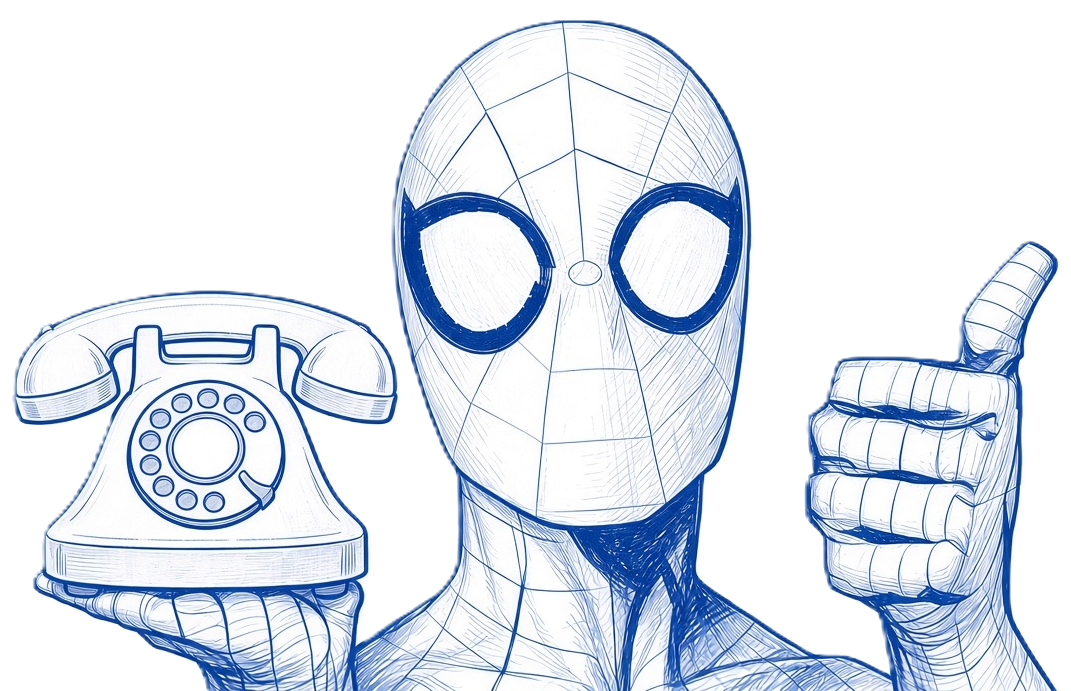
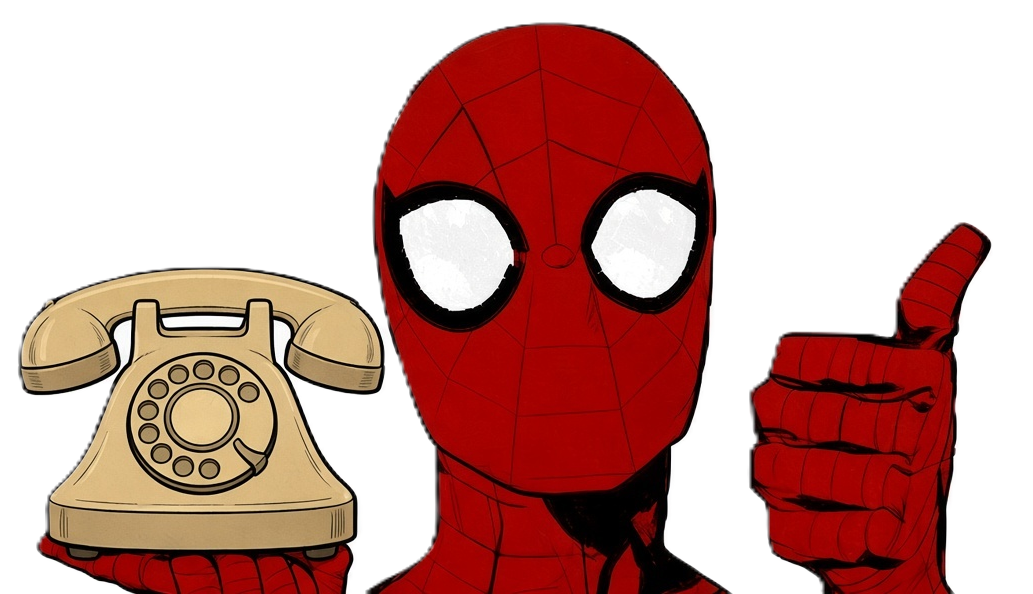
Update footer new ui

diff --git a/components/footer.tsx b/components/footer.tsx
@@ -19,8 +19,8 @@ const CONTACTS: {
     external: true
   },
   {
-    label: 'x',
-    value: '10xdhruv',
+    label: 'X',
+    value: '@10xdhruv',
     href: 'https://x.com/10xdhruv',
     external: true
   }
@@ -44,37 +44,33 @@ function SlantArrow () {
 export function Footer () {
   return (
     <footer className='mx-auto w-full max-w-3xl relative z-[1] text-ink'>
-      <div className='grid grid-cols-[32%_minmax(0,1fr)] items-center gap-12 rounded-lg border-[1.5px] border-dashed border-ink px-8 py-7 max-sm:grid-cols-[minmax(0,1fr)] max-sm:gap-4 max-sm:p-5'>
-        <Image
-          src={telephone}
-          alt='Etched antique telephone'
-          width={1039}
-          height={752}
-          className='pointer-events-none block '
-          style={{
-            maskImage: `url("${telephone.src}")`,
-            WebkitMaskImage: `url("${telephone.src}")`
-          }}
-        />
-        <div className='min-w-0'>
-          <h2 className='text-2xl font-normal leading-line text-ink-dark [.is-mono_&]:text-xl max-sm:text-[1.375rem]'>
+      <div className='grid grid-cols-[32%_minmax(0,1fr)] items-center gap-12 rounded-lg border-[1.5px] border-dashed border-ink px-5 py-3 max-sm:grid-cols-[minmax(0,1fr)] max-sm:gap-4 max-sm:p-5'>
+        <div className="flex flex-col items-center relative">
+          <Image
+            src={telephone}
+            alt='Etched antique telephone'
+            className='pointer-events-none block relative bottom-2'
+          />
+          <span> Caught in my web :D</span>
+        </div>
+        <div className='w-'>
+          <h2 className='w-full text-2xl font-normal leading-line text-ink-dark [.is-mono_&]:text-xl max-sm:text-[1.375rem]'>
             Dhruv Sahoo
           </h2>
-          <ul className='list-none'>
+          <ul className='w-full list-none'>
             {CONTACTS.map(c => (
               <li key={c.label}>
                 <a
-                  className='dotted-underline group grid w-full cursor-pointer grid-cols-[4.5rem_minmax(0,1fr)_1.4rem] items-baseline gap-2 leading-line focus-visible:outline-1 focus-visible:outline-dashed focus-visible:outline-offset-[3px] focus-visible:outline-ink max-sm:grid-cols-[3.75rem_minmax(0,1fr)_1.4rem] max-sm:gap-[0.35rem] max-sm:text-lg'
+                  className='group w-full grid grid-cols-[6rem_1fr] gap-4 cursor-pointer leading-line focus-visible:outline-1 focus-visible:outline-dashed focus-visible:outline-offset-[3px] focus-visible:outline-ink items-end in-[.is-mono_&]:border-b in-[.is-mono_&]:border-ink/30'
                   href={c.href}
                   {...(c.external
                     ? { target: '_blank', rel: 'noreferrer' }
                     : {})}
                 >
-                  <span className='text-ink'>{c.label}</span>
+                  <span className='text-ink/70'>{c.label}</span>
                   <span className='wrap-anywhere text-ink group-hover:text-ink-dark group-focus-visible:text-ink-dark'>
                     {c.value}
                   </span>
-                  <SlantArrow />
                 </a>
               </li>
             ))}
